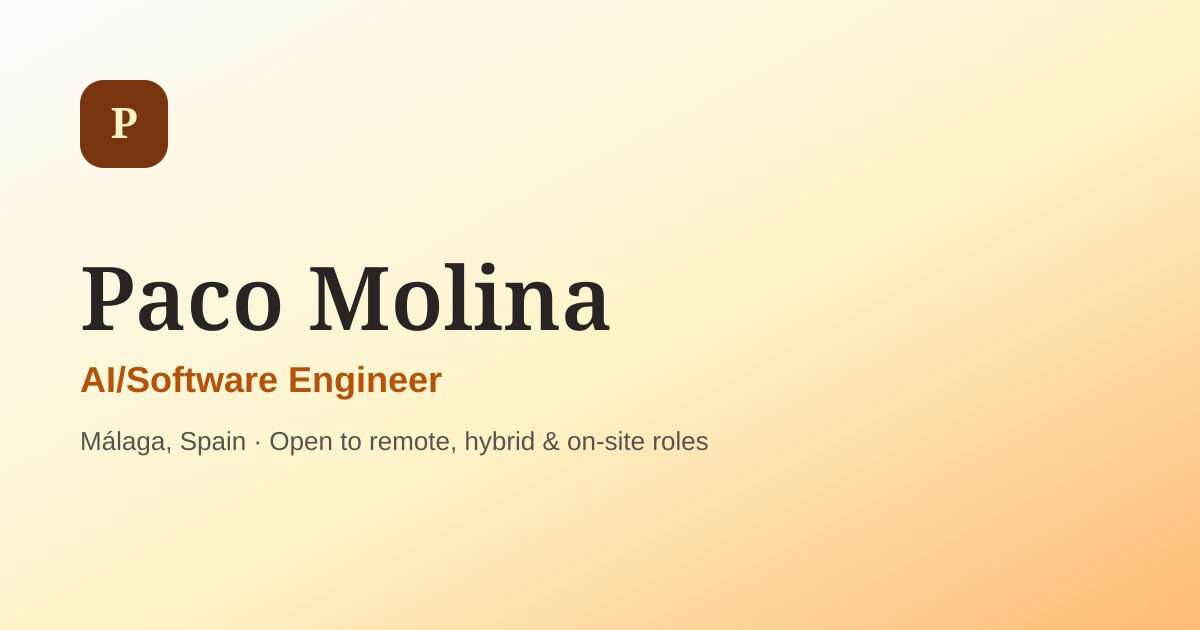
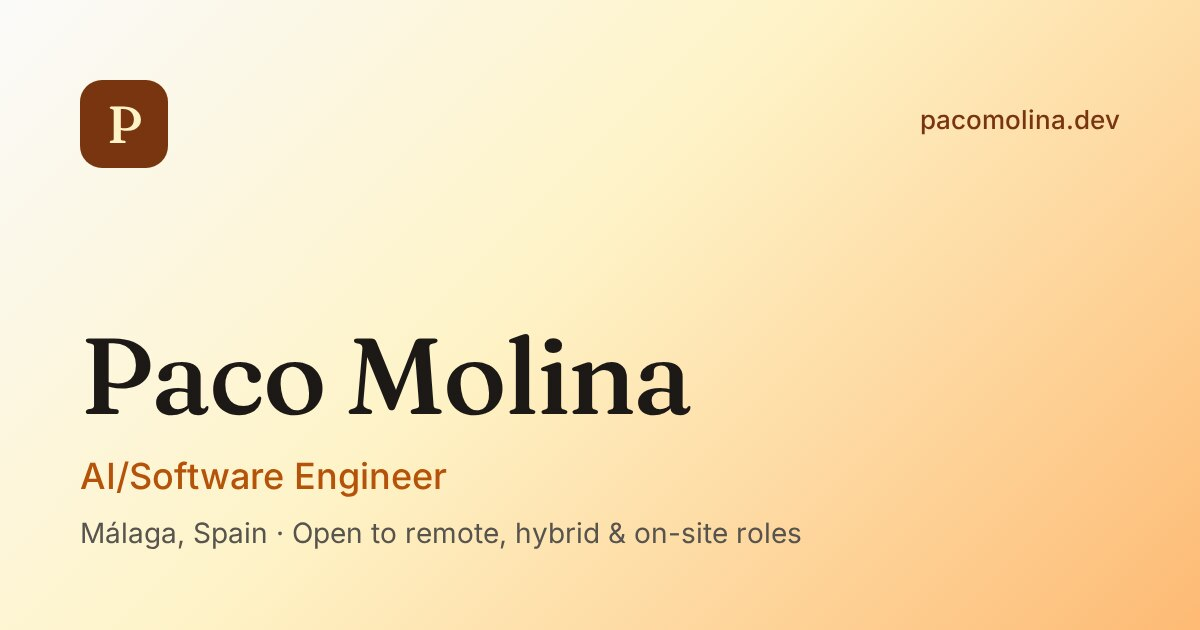
Give each section its own social preview card
Sharing /projects/, /work/, /about/ or /blog/ now shows a card for that
section instead of the generic one, and the home card is redrawn to
match. Rendered with the site's own fonts and palette by
scripts/og/render.mjs; also documents the RSS feed and structured data.

diff --git a/AGENTS.md b/AGENTS.md
@@ -314,15 +314,22 @@ All real content is in as of the second pass:
   one-tap way for someone to save Paco's contact, more reliable than
   `mailto:` on a device with no mail client configured. Contains name,
   title, email, LinkedIn and GitHub URLs. No phone number (never provided).
-- **OG image** (`public/og-image.jpg`, 1200×630): a generated brand card
-  (warm gradient, "P" monogram, name, role, location/availability) wired via
-  `og:image`/`twitter:image` in `Layout.astro` as an **absolute** URL
-  (`new URL(..., Astro.site)`) — OG tags require absolute URLs, relative
-  ones are silently ignored by most crawlers. If the SVG source is ever
-  needed again to regenerate it, it was rendered locally via
-  `magick <svg> -resize 1200x630 -background "#fafaf9" -flatten -strip
-  -quality 87 public/og-image.jpg`; the source SVG itself wasn't kept in the
-  repo (only the rendered JPG).
+- **Social preview (OG) images**, 1200×630, one per section:
+  `public/og-image.jpg` (home, also the JSON-LD Person image) and
+  `public/og/{projects,work,about,blog}.jpg` (blog posts use the blog
+  card). Pages pass `ogImage` to `Layout.astro`, which emits it as an
+  **absolute** URL (`new URL(..., Astro.site)`) for `og:image` /
+  `twitter:image` — relative ones are silently ignored by most crawlers.
+  Rendered by `scripts/og/render.mjs` (Playwright + the site's own
+  Fraunces/Inter, inlined as data: URLs — loaded from file:// they
+  silently fell back to Times/Arial; the script now throws if the fonts
+  didn't load). English text, since crawlers see the English prerender.
+  Re-run it if a card's text changes (job title, project names…).
+- **Blog feed + structured data**: `src/pages/rss.xml.ts` (hand-written,
+  published posts only, English version or Spanish fallback), advertised
+  via `<link rel="alternate">` in every page's `<head>`; each post also
+  gets a `BlogPosting` JSON-LD block (`Event` for talks) through
+  `Layout`'s `jsonLd` prop.
 - **Analytics: wired, switched off until Paco creates the account.** He
   picked GoatCounter (free, cookie-less, no consent banner). Set
   `site.goatcounter` in `site.ts` to the account's code (the `xxx` of
